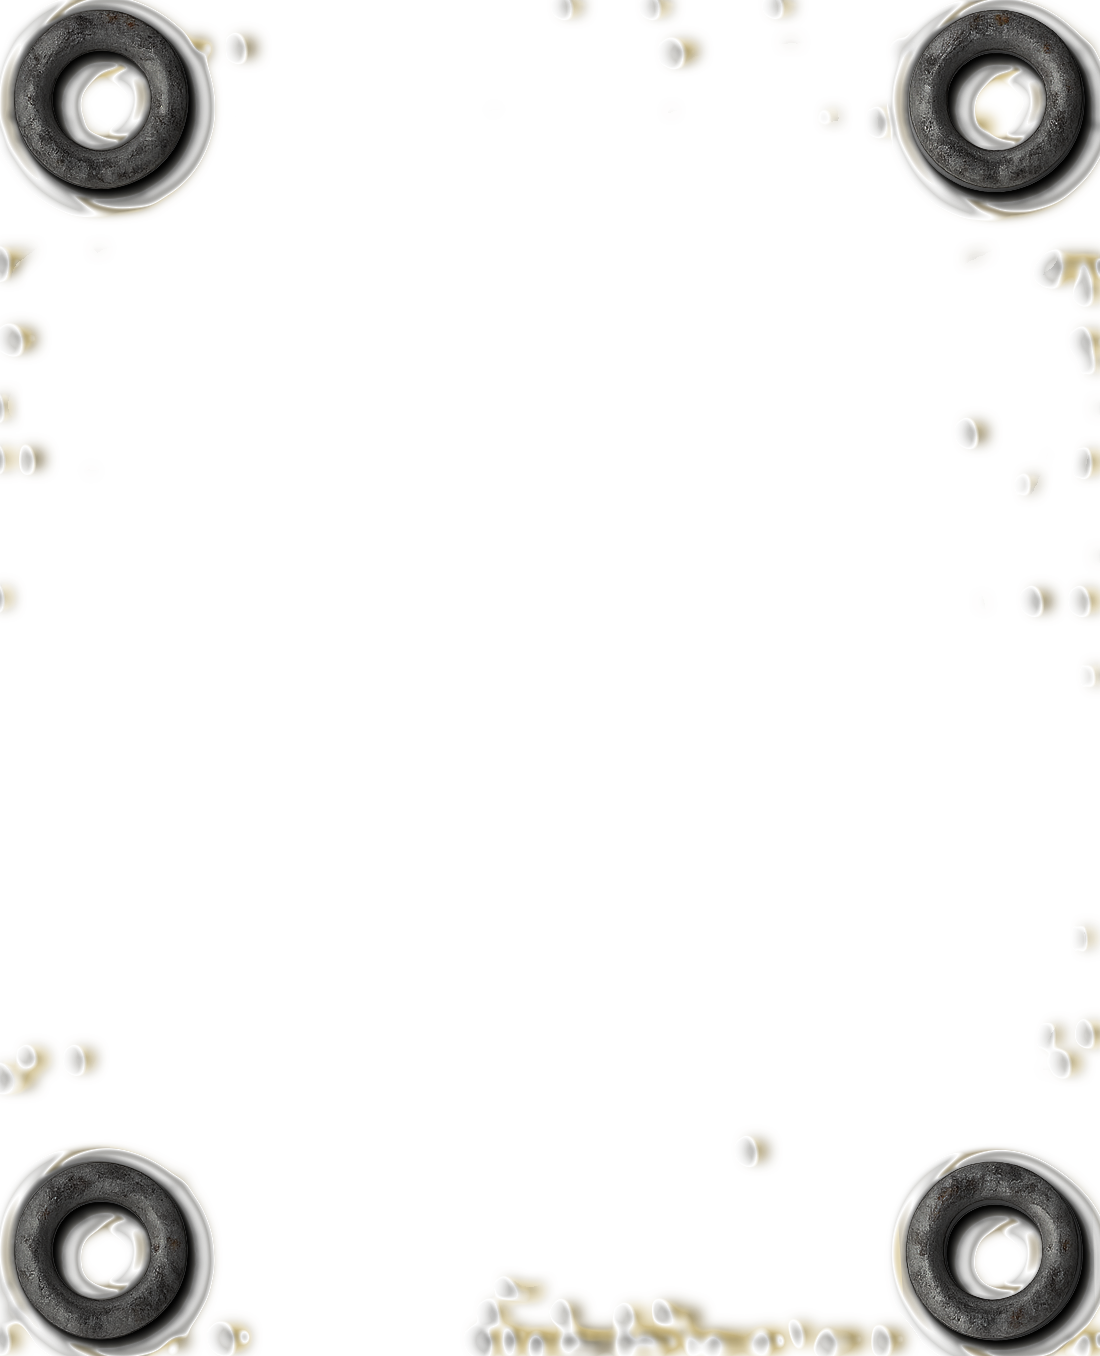
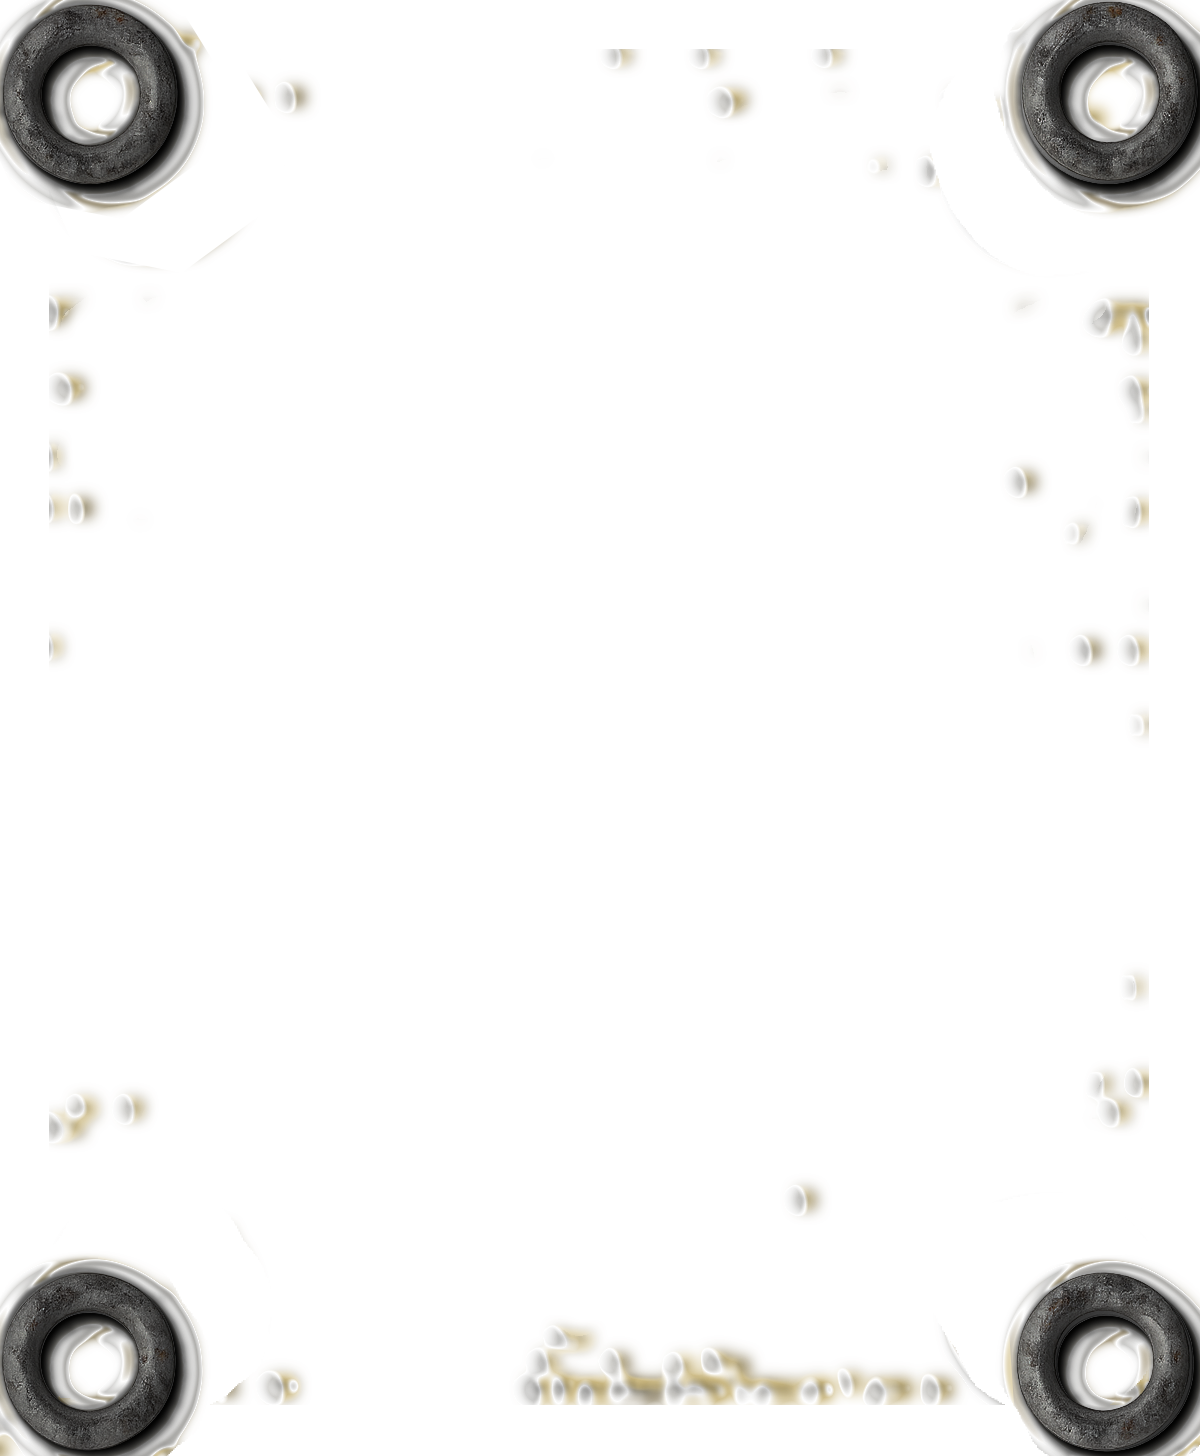
style: Update campaign header layout and enhance visual elements; delete unused images

diff --git a/campaign_service_record/static/css/detail.css b/campaign_service_record/static/css/detail.css
@@ -20,16 +20,18 @@
    ============================================================================ */
 
 .campaign-header {
-    background-color: rgba(248, 242, 224, 0.92);
-    background-image: url('../images/old_paper_texture.jpg');
+    background-color: rgba(248, 242, 224, 0.96);
+    /*background-image: url('../images/old_paper_texture.png');*/
     background-repeat: repeat;
     border-radius: 8px;
     position: relative;
     padding: 1.5rem 2rem;
     margin-bottom: 2rem;
-    min-height: 180px;
+    min-height: 160px;
     box-shadow: var(--shadow-soft);
     border: 1px solid var(--border);
+	border-bottom: 1px solid rgba(60, 40, 20, 0.08);
+	border-bottom-color: rgba(60, 40, 20, 0.06);
     overflow: hidden;
 }
 
@@ -46,29 +48,29 @@
 }
 
 .campaign-header__plane-image {
-    max-height: clamp(110px, 22vw, 170px);
+    max-height: clamp(110px, 22vw, 150px);
     max-width: min(55%, 400px);
     width: 100%;
     height: auto;
     object-fit: contain;
-    opacity: 0.4;
-    transform: translateX(-2%);
-}
-
-.campaign-header__insignia {
-    max-height: clamp(50px, 10vw, 90px);
-    width: auto;
-    height: auto;
-    object-fit: contain;
-    opacity: 0.55;
-}
-
-.campaign-header__insignia--left {
-    transform: translateX(30%);
-}
-
-.campaign-header__insignia--right {
-    transform: translateX(-30%);
+    opacity: 0.35;
+    transform: translateX(26%);
+	filter: saturate(0.85) contrast(0.9);
+	 /* directional fade */
+	-webkit-mask-image: linear-gradient(
+		to right,
+		transparent 0%,
+		rgba(0,0,0,0.6) 30%,
+		rgba(0,0,0,0.6) 70%,
+		transparent 100%
+  ); 
+    mask-image: linear-gradient(
+		to right,
+		transparent 0%,
+		rgba(0,0,0,0.6) 30%,
+		rgba(0,0,0,0.6) 70%,
+		transparent 100%
+  );
 }
 
 .campaign-header h2 {
@@ -104,12 +106,14 @@
     right: 2rem;
     width: 190px;
     height: auto;
-    opacity: 0.85;
-    transform: scale(1)translateY(0.1rem) rotate(-12deg);
-    filter: drop-shadow(0 6px 6px rgba(66, 41, 19, 0.35));
+    opacity: 0.35;
+    transform: scale(0.9)translateY(-0.6rem) rotate(-20deg);
+    filter: drop-shadow(0 1px 1px rgba(66, 41, 19, 0.14)) blur(0.2px);
     pointer-events: none;
     z-index: 3;
 }
+
+
 
 @media (max-width: 900px) {
     .campaign-header {
@@ -163,8 +167,8 @@
 }
 
 .column {
-    background-color: rgba(248, 242, 224, 0.92);
-    background-image: url('../images/old_paper_texture.jpg');
+    background-color: rgba(248, 242, 224, 0.96);
+    /*background-image: url('../images/old_paper_texture.png');*/
     background-repeat: repeat;
     border-radius: 8px;
     padding: 1.5rem;
@@ -232,15 +236,15 @@
 }
 
 .event-item {
-    padding: 0.75rem;
+    padding: 0.6rem;
     border-left: 3px solid #8f6f4a;
-    background: rgba(219, 205, 176, 0.86);
+    background: rgba(221, 212, 193, 0.5);
     border-radius: 4px;
     transition: all 0.2s ease;
 }
 
 .event-item:hover {
-    background: rgba(205, 188, 158, 0.94);
+    background: rgba(205, 188, 158, 0.5);
     border-left-color: #6f5437;
 }
 
@@ -249,7 +253,7 @@
 }
 
 .event-item.promotion:hover {
-    background: rgba(205, 188, 158, 0.94);
+    background: rgba(205, 188, 158, 0.5);
 }
 
 .event-item.award {
@@ -257,7 +261,7 @@
 }
 
 .event-item.award:hover {
-    background: rgba(203, 186, 155, 0.94);
+    background: rgba(203, 186, 155, 0.7);
 }
 
 .event-header {

diff --git a/campaign_service_record/static/index.html b/campaign_service_record/static/index.html
@@ -98,9 +98,9 @@
                     <!-- Campaign Header -->
                     <header class="campaign-header">
                         <div class="campaign-header__aircraft-row" aria-hidden="true">
-                            <img id="campaign-insignia-left" class="campaign-header__insignia campaign-header__insignia--left" alt="">
+                            <!-- img id="campaign-insignia-left" class="campaign-header__insignia campaign-header__insignia--left" alt=""!-->
                             <img id="campaign-plane" class="campaign-header__plane-image" alt="">
-                            <img id="campaign-insignia-right" class="campaign-header__insignia campaign-header__insignia--right" alt="">
+                            <!--img id="campaign-insignia-right" class="campaign-header__insignia campaign-header__insignia--right" alt=""!-->
                         </div>
                         <h2 id="campaign-title">Campaign Name</h2>                   
                         <img class="campaign-header__stamp" src="static/images/stamp_extra_II.png" alt="Campaign stamp">
